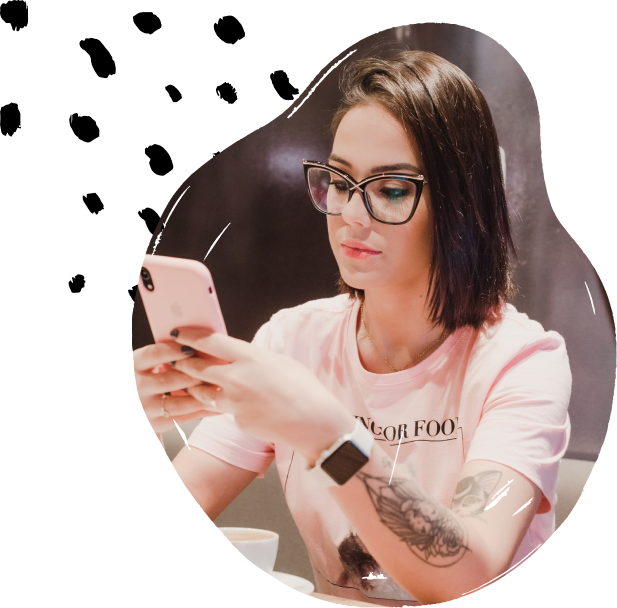
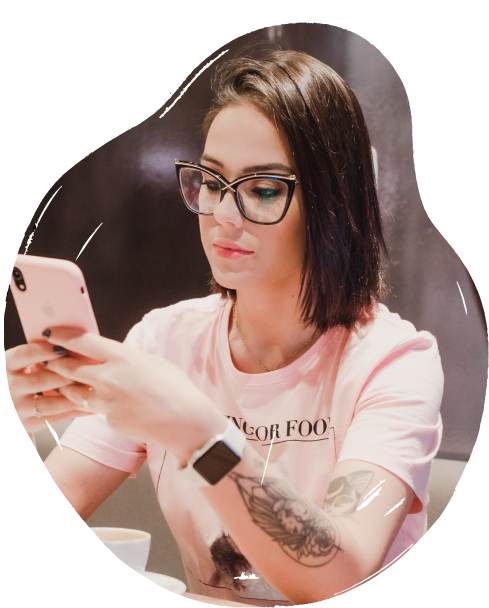
update home

diff --git a/src/features/home/Home.js b/src/features/home/Home.js
@@ -5,7 +5,9 @@ import PortraitCatalog from "../../components/organisms/cards/catalog/PortraitCa
 import style from "./Home.module.scss";
 
 import work1 from "./images/work1.png"
-import work2 from "./images/work3.png"
+import work2 from "./images/work2.png"
+import work2Art from "./images/work2-art.png"
+import work3 from "./images/work3.png"
 
 export default function Home() {
   document.title = "Home";
@@ -18,13 +20,13 @@ export default function Home() {
         <h2 className="text-align-center">How it works?</h2>
 
         <div className="mt-60">
-          <LandscapeCatalog imageUrl={work1} titleText="Setup your profile & preferences" bodyText="Once you create an account, you can start to tell us your likes and dislikes so we can tailor the experience just for you." />
+          <LandscapeCatalog imageUrl={work1} titleNumber="1" titleText="Setup your profile & preferences" bodyText="Once you create an account, you can start to tell us your likes and dislikes so we can tailor the experience just for you." />
 
 
-          <PortraitCatalog titleText="Try it on at home" bodyText="Your box will arrive within 3-5 days (usually sooner) and you get the joy to unbox your Upbox. Try it all on and send back whatever you’re not in love with."/>
+          <PortraitCatalog className="mt-150" titleNumber="2" imageUrl={work2} bgImageUrl={work2Art} titleText={<div><p>Review your</p><p>custom box</p></div>} bodyText="Once we get to know you, we will show you the box we’ve crafted. This is your chance to approve it before we ship it to your house." />
 
-          
-          <LandscapeCatalog className="mt-50" imageUrl={work2} titleText="Try it on at home" bodyText="Your box will arrive within 3-5 days (usually sooner) and you get the joy to unbox your Upbox. Try it all on and send back whatever you’re not in love with." />
+
+          <LandscapeCatalog className="mt-100" titleNumber="3" imageUrl={work3} titleText="Try it on at home" bodyText="Your box will arrive within 3-5 days (usually sooner) and you get the joy to unbox your Upbox. Try it all on and send back whatever you’re not in love with." />
 
         </div>
       </div>

diff --git a/src/components/organisms/cards/catalog/PortraitCatalog.js b/src/components/organisms/cards/catalog/PortraitCatalog.js
@@ -1,9 +1,19 @@
 import style from "./catalog.module.scss"
 
-export default function PortraitCatalog({className=''}) {
+export default function PortraitCatalog({ className = '', titleNumber, imageUrl, bgImageUrl, titleText, bodyText }) {
   return (
-    <div className={`${className} ${style.portraitCatalogContainer} d-flex justify-content-space-between`}>
-      
+    <div className={`${className} ${style.portraitCatalogContainer}`}>
+
+      <div className="position-relative">
+        <img className={style.portraitFgImage} src={imageUrl} />
+        <img className={style.portraitBgImage} src={bgImageUrl} />
+        <h2 className={style.portraitTitleNumber}>{titleNumber}</h2>
+      </div>
+
+      <div className={style.portraitTextSection}>
+        <h3 className={style.titleText}>{titleText}</h3>
+        <p className={style.bodyText}>{bodyText}</p>
+      </div>
     </div>
   )
 }

diff --git a/src/components/organisms/cards/catalog/catalog.module.scss b/src/components/organisms/cards/catalog/catalog.module.scss
@@ -1,9 +1,9 @@
 .portraitCatalogContainer {
-  padding-left: 200px;
+  padding-left: 307px;
 }
 
 .imageSection {
-  flex-basis: 403px;
+  flex-basis: 307px;
   flex-grow: 0;
   flex-shrink: 0;
 }
@@ -24,4 +24,45 @@
   font-weight: 400;
   line-height: normal;
   letter-spacing: 0.18px;
+}
+
+.portraitTitleNumber,
+.landscapeTitleNumber {
+  color: #EF8094;
+  font-family: Roboto;
+  font-size: 220px;
+  font-style: normal;
+  font-weight: 400;
+  position: absolute;
+}
+
+.portraitTitleNumber {
+  bottom: -60px;
+  left: -69px;
+  z-index: 10;
+}
+
+.landscapeTitleNumber {
+  top: 1px;
+  left: 15px;
+}
+
+.portraitFgImage {
+  position: relative;
+  z-index: 10;
+  width: 404px;
+}
+
+.portraitBgImage {
+  position: absolute;
+  z-index: 1;
+  width: 270px;
+  left: 200px;
+  top: -51px;
+}
+
+.portraitTextSection {
+  padding-left: 75px;
+  max-width: 417px;
+  margin-top: 10px;
 }

diff --git a/src/components/organisms/cards/catalog/LandscapeCatalog.js b/src/components/organisms/cards/catalog/LandscapeCatalog.js
@@ -1,12 +1,13 @@
 import style from "./catalog.module.scss"
 
-export default function LandscapeCatalog({ imageUrl, titleText, bodyText, className = '' }) {
+export default function LandscapeCatalog({ imageUrl, titleNumber, titleText, bodyText, className = '' }) {
   return (
     <div className={`d-flex justify-content-space-between ${className}`}>
-      <div className={style.imageSection}>
+      <div className={`${style.imageSection} position-relative`}>
         <img className="w-100" src={imageUrl} />
+        <h2 className={style.landscapeTitleNumber}>{titleNumber}</h2>
       </div>
-      <div className="px-20 pt-50">
+      <div className="pl-40 pt-50">
         <h3 className={style.titleText}>{titleText}</h3>
         <p className={style.bodyText}>{bodyText}</p>
       </div>

diff --git a/src/components/organisms/navbar/NavBar.js b/src/components/organisms/navbar/NavBar.js
@@ -43,9 +43,9 @@ export default function NavBar() {
       <Container>
         <div className="d-flex justify-content-space-between align-items-center py-10">
           <div>
-            <a href="/">
+            <NavLink to="/">
               <SvgSprite name="logo" width="150" height="50" />
-            </a>
+            </NavLink>
           </div>
           <div className="">
             <ul className={style.NavItemContainer}>

diff --git a/src/assets/scss/helpers/padding-border-margin.scss b/src/assets/scss/helpers/padding-border-margin.scss
@@ -1,5 +1,5 @@
 
-$spaceamounts: (0, 5, 10, 15, 20, 25, 30, 35, 40, 45, 50, 60, 65, 70, 75, 80, 90, 100); // Adjust this to include the pixel amounts you need.
+$spaceamounts: (0, 5, 10, 15, 20, 25, 30, 35, 40, 45, 50, 60, 65, 70, 75, 80, 90, 100, 150, 200); // Adjust this to include the pixel amounts you need.
 $sides: (top, bottom, left, right); // Leave this variable alone
 
 @each $space in $spaceamounts {

diff --git a/src/assets/scss/helpers/common.scss b/src/assets/scss/helpers/common.scss
@@ -6,3 +6,11 @@ $displayProps : (block, inline-block, inline, flex, inline-flex, grid, inline-gr
     display: $display;
   }
 }
+
+$positionProps : (relative, absolute, static, fixed, sticky);
+
+@each $position in $positionProps {
+  .position-#{$position} {
+    position: $position;
+  }
+}

diff --git a/src/components/organisms/navbar/NavBar.module.scss b/src/components/organisms/navbar/NavBar.module.scss
@@ -3,7 +3,7 @@
   left: 0px;
   top: 0px;
   width: 100%;
-  z-index: 10;
+  z-index: 1000;
   background-color: #fff;
 }
 
